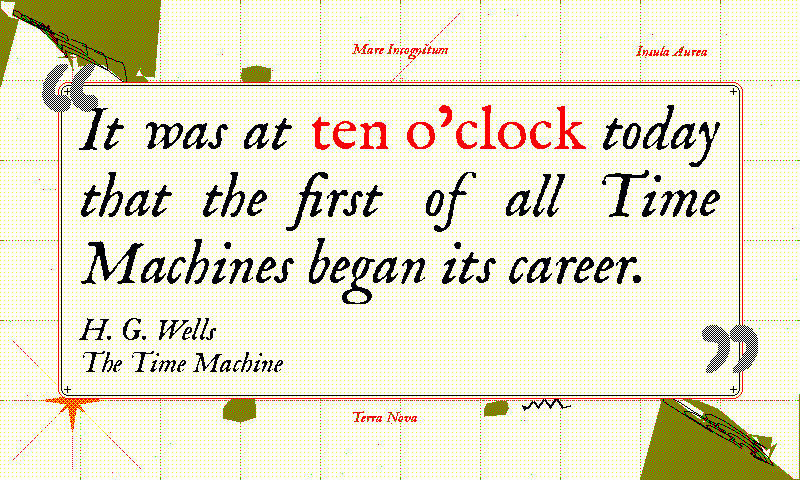
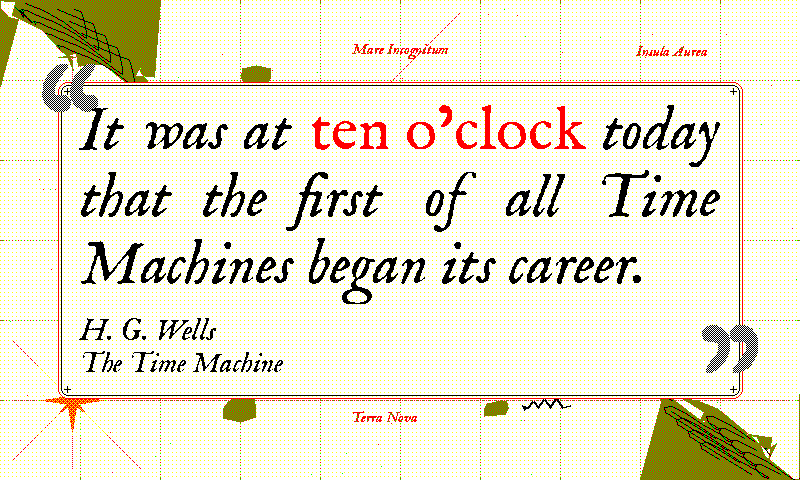
Fix cartograph topographic contours: parallel offset lines, not bunched rings
The previous contour attempt interpolated the coast arc toward a single
inland "summit", which bunched all the rings into a band hugging the
coastline and left the landmass interior empty — it didn't read as relief.

Redo the form-lines the way real topographic contours work: five lines,
each an inland OFFSET copy of the smoothed coast edge translated toward the
corner in fixed 12 px steps, so they run parallel to the shoreline at even
spacing across the whole landmass. Each segment is clipped to the land
silhouette via a new even-odd `_point_in_polygon` helper so offsets that
overshoot the corner apex into open sea aren't drawn. Still black over the
sepia fill, still byte-deterministic (covered by the existing cartograph
determinism test).

Refresh the cartograph README thumbnail; default.png reproduces
byte-for-byte. Update CLAUDE.md. Full suite green before commit (396
passed, 3 skipped); ruff clean.

Changed region(s): [[0.8438, 0.8438, 0.9688, 1.0], [0.0312, 0.0312, 0.1562, 0.1562]]

diff --git a/idle_hours/render_quote.py b/idle_hours/render_quote.py
@@ -9921,6 +9921,29 @@ def _draw_cartograph_sea_serpent(
     draw.polygon(head_pts, fill=ink)
 
 
+def _point_in_polygon(x: int, y: int, poly: list[tuple[int, int]]) -> bool:
+    """Even-odd ray-cast point-in-polygon test.
+
+    Used by ``_draw_cartograph_coastline`` to clip interior contour
+    form-lines to the land silhouette so an offset contour that overshoots
+    the corner apex into open sea isn't painted. Pure-integer crossing
+    count; ``poly`` is the closed land polygon (the function treats it as
+    implicitly closed).
+    """
+    inside = False
+    n = len(poly)
+    j = n - 1
+    for i in range(n):
+        xi, yi = poly[i]
+        xj, yj = poly[j]
+        if (yi > y) != (yj > y):
+            x_cross = xi + (y - yi) * (xj - xi) / (yj - yi) if yj != yi else xi
+            if x < x_cross:
+                inside = not inside
+        j = i
+    return inside
+
+
 def _draw_cartograph_coastline(
     draw: ImageDraw.ImageDraw,
     corner: tuple[int, int],
@@ -9994,17 +10017,19 @@ def _draw_cartograph_coastline(
     pts.append((corner_x, corner_y))
     draw.polygon(pts, fill=ink_sentinel)
 
-    # Interior topographic form-lines — nested contour rings shrinking
-    # toward an inland "summit" near the corner, the contour engraving an
-    # antique chart used to show a landmass has relief rather than reading
-    # as a flat ink blot. The rings echo the shoreline's broad shape but
-    # are SMOOTHED first (a couple of neighbour-averaging passes) so they
-    # read as clean engraved form-lines rather than inheriting the coast's
-    # fractal jitter at shrunk scale (which looked like scribble). Drawn
-    # in BLACK (not the red sentinel) so the caller's red→green sepia
-    # post-pass leaves them as crisp lines over the sepia land fill. The
-    # summit sits a short way in from the corner along the diagonal so the
-    # rings nest concentrically toward high ground.
+    # Interior topographic form-lines — contour lines drawn as inland
+    # OFFSET copies of the coastline, the contour engraving an antique
+    # chart used to show a landmass has relief rather than reading as a
+    # flat ink blot. Rather than interpolating the coast arc toward a
+    # single summit (which bunches the rings together at the arc's narrow
+    # ends), each contour is the smoothed coast edge TRANSLATED toward the
+    # corner by a fixed pixel step — so the form-lines run parallel to the
+    # shoreline at constant spacing, exactly the way real topographic
+    # contours hug a coast. The smoothing (two neighbour-averaging passes)
+    # keeps them clean engraved lines rather than inheriting the coast's
+    # fractal jitter. Drawn in BLACK (not the red sentinel) so the
+    # caller's red→green sepia post-pass leaves them as crisp relief lines
+    # over the sepia land fill.
     smooth_edge = list(coast_edge)
     for _ in range(2):
         smoothed: list[tuple[float, float]] = []
@@ -10015,27 +10040,27 @@ def _draw_cartograph_coastline(
             cx2, cy2 = smooth_edge[(j + 1) % m]
             smoothed.append(((ax + 2 * bx2 + cx2) / 4.0, (ay + 2 * by2 + cy2) / 4.0))
         smooth_edge = smoothed
-    summit_x = corner_x + sign_x * round(abs(extent_x - corner_x) * 0.30)
-    summit_y = corner_y + sign_y * round(abs(extent_y - corner_y) * 0.30)
     contour_ink = SPECTRA6["black"]
-    # Four evenly-spaced rings give a denser, more legibly "topographic"
-    # nest than three; they span from just inside the coast (0.80) to
-    # close to the summit (0.20).
-    for factor in (0.80, 0.60, 0.40, 0.20):
-        ring = [
-            (round(summit_x + (px - summit_x) * factor),
-             round(summit_y + (py - summit_y) * factor))
-            for px, py in smooth_edge
-        ]
-        # Open polyline so the contour reads as a hand-drawn form-line
-        # that fades near the coast-meets-axis ends rather than a closed
-        # loop sitting awkwardly on the corner edges.
-        draw.line(ring, fill=contour_ink, width=1)
-    # A small filled summit dot marks the high point (a spot-height mark).
-    draw.ellipse(
-        (summit_x - 1, summit_y - 1, summit_x + 1, summit_y + 1),
-        fill=contour_ink,
-    )
+    # Five contours stepping inland from just inside the coast (12 px) to
+    # deep toward the corner (60 px). Translating by ``-sign * step`` moves
+    # each point toward the corner the land sits in. Only the segments
+    # that stay inside the land polygon read as relief; segments that
+    # would fall in the sea/off-corner are clipped to the land fill below.
+    land_poly = pts
+    for step in (12, 24, 36, 48, 60):
+        ring = [(px - sign_x * step, py - sign_y * step) for px, py in smooth_edge]
+        # Clip each contour to the land: only paint a segment when BOTH
+        # endpoints sit on a sepia-land pixel (the red sentinel fill), so
+        # an offset that overshoots past the corner apex into open sea
+        # isn't drawn. Walk the polyline pairwise.
+        for a, b in zip(ring, ring[1:]):
+            ax, ay = int(round(a[0])), int(round(a[1]))
+            bxp, byp = int(round(b[0])), int(round(b[1]))
+            if not _point_in_polygon(ax, ay, land_poly):
+                continue
+            if not _point_in_polygon(bxp, byp, land_poly):
+                continue
+            draw.line((ax, ay, bxp, byp), fill=contour_ink, width=1)
 
     xs = [p[0] for p in pts]
     ys = [p[1] for p in pts]

diff --git a/CLAUDE.md b/CLAUDE.md
@@ -554,7 +554,7 @@ Imports `pick_quote` in-process (`pick_quote_module.select_quote`) and lays out 
   - `tarot` (cream-and-sepia foxed vellum ground / black EB Garamond body / Tyrian-purple matched phrase / red+blue rubricated chrome, single-card major-arcana tarot composition — the fourth theme to bypass the literary layout entirely. Composition: a centred 520×440 card outline with a doubled rubricated border (3-px red outer rule + 2-px gap + 1-px black inner rule, the same illuminated-family border family `illuminated` / `gothic` extend), playing-card-style Roman numerals in all four card corners (bottom pair rotated 180° via PIL `Image.rotate(180)` so the hour reads from any orientation — the canonical playing-card convention; each corner numeral carries a small red "suit pip" dot beneath it as a stylised IH-rank-glyph differentiator from a real playing card), a Roman numeral hour at the card top in Cinzel Decorative Black 36pt, the matched-phrase **card name in Tyrian purple (R+B 1:1 dither via `draw_text_dithered`)** — the same recipe `illuminated` uses for its matched phrase, here promoted to the card-name chrome — set in Cinzel Decorative Bold 22pt all-caps, an **hour-mapped emblem at the card centre** (all twelve trumps ship as detailed line-work polygon templates ~140–200 px tall via `_TAROT_EMBLEMS` dispatch — Magician I with vertical staff + infinity lemniscate + suit-tools altar / Priestess II with B/J pillars + crescent moon + TORA scroll / Empress III with throne + 12-star crown arc + wheat sheaf / Emperor IV with ram-head finials + crown + ankh scepter + orb / Hierophant V with triple-tier triregnum tiara + crossed keys / Lovers VI with sun + angel + intertwined hearts + flanking trees / Chariot VII with 4-spoke wheels + canopy columns + pentagram star / Strength VIII with infinity above + lion silhouette with mane rays + fanged mouth / Hermit IX with hooded robe silhouette + raised lantern with 24-point flame + diagonal staff / Wheel X with concentric rims + 8 spokes + T·A·R·O cardinal sigils + 12 perimeter ticks / Justice XI with 3-spike crown + raised sword + balanced scales + pivot diamond / World XII with laurel-wreath leaf-polygon ring + dancing stick figure + 4 corner creature stars; the defensive `_tarot_emblem_default` pentagram fallback is retained but no normal-use hour reaches it now), the literary quote body in EB Garamond Regular sitting in a **clean cream-Bayer cartouche knocked out of the surrounding R+G sepia foxing** via `_tarot_paint_body_panel` (the foxing-stipple from `_tarot_paint_vellum` is gorgeous as card-stock texture but breaks up EB Garamond's hairline serifs in small-glyph regions, so the body region is overpainted with a solid-white wipe followed by a fresh Y+W cream wash and framed with a thin red rule anchoring it as a deliberate "interpretation cartouche" — same border family as the outer doubled rule), and a centred author · title attribution in Cinzel Decorative Regular 12pt at the bottom of the card. The **R+G sepia foxing vellum ground** (`_tarot_paint_vellum`) is a two-layer aged-paper recipe: a 2-in-16 Y+W cream base wash for warm parchment tone, then sparse 1-in-32 R+G foxing dots split by tile-coordinate parity (red at one tile-parity, green at the opposite) so the foxing scatter looks random rather than grid-aligned — at panel viewing distance adjacent R + G dots blend into rust-brown sepia, the same lignin-oxidation recipe `newsprint` uses for its foxing layer but layered over cream rather than over a darker halftone so the card stock reads as older archival ritual-document than fresh manuscript vellum (distinct from the gold-cream Y+W register `illuminated` / `herbarium` / `mucha` / `astrarium` use). Saturation tier `0.5` (white ground despite the foxing) — the matched-phrase Tyrian purple and the rubricated red corner numerals stay punchy at the panel's white-ground tier.
   - `vinyl` (cream-washed sleeve / black Cormorant Garamond body / tangerine matched-phrase / red label + black tonearm, turntable + literary-audiobook LP back-cover — the fifth theme to bypass the literary layout entirely. Visually a 1950s/60s spoken-word LP in the **Caedmon Records / Spoken Arts / Listening Library register** — those labels pressed Dylan Thomas, T. S. Eliot, Auden et al. reading their own work to vinyl, the discs looked mechanically identical to music LPs (33 RPM, grooved, jacketed, library-distributed), and they are the historical bridge between a vinyl visual and a literary corpus. Composition divides the canvas down the middle: **left half is the turntable** with a black vinyl LP (radius 200, centred at `(_VINYL_DISK_CX, _VINYL_DISK_CY) = (200, 240)`) — densely-packed concentric groove hairlines (1-px white ellipses every 3 px across the programme band r_label+12 → r_outer-10 = ~33 grooves that blur at panel distance into a textured silvery band — earlier revisions used only 3-4 rings spaced 28 px apart which read as decorative concentric circles rather than as actual pressed-vinyl grooves), a heavier 2-px lead-in groove just inside the rim, and a smooth dead-wax ring between the inner groove and the label — the three-zone authentic LP pressing structure. The **pivoted tonearm** (`_vinyl_paint_tonearm`) replaces an earlier straight-line stylus rendition: the arm pivots from a fixed point at `_VINYL_TONEARM_PIVOT = (388, 70)` (upper-right of the turntable plate, off the disk itself), with a counterweight cylinder behind the pivot (small black filled circle + red outline ring) and a black cartridge headshell at the front (a 4-point polygon rotated to follow the arm angle, since PIL has no rotate-rectangle primitive); the cartridge stylus pin (small red filled circle) lands on the disk rim at the current-minute angle (12-o'-clock = minute 0, clockwise) — the canonical "this is a turntable" silhouette every consumer LP-deck has worn into collective memory, without which the disk reads as a generic vinyl drawing. The red 80-px-radius **label** carries an outer 2-px black ring border (inset 4 px from the label edge), a `· SPOKEN WORD ·` format mark along the top arc in small Antonio Bold (the audiobook-LP equivalent of a music LP's STEREO format mark), the matched-phrase snippet truncated to 18 chars as the "passage title" in Cormorant Bold 11pt, a thin white hairline divider, an `IDLE HOURS` Cormorant Bold 14pt brand line, a `READ ALOUD` Cormorant Regular 11pt sub-title (the audiobook-LP equivalent of music LP's "VOLUME I"), a Space Mono Bold catalog number like `IH-H11-15` derived from the fuzzy bucket via `_vinyl_catalog_number`, and a `© YYYY` year stamp at the bottom arc — all white-on-red. Render order on the turntable side is **disk body (black + grooves only, no label / spindle) → tonearm (line may cross over the inner disk and label area) → label (red fill + outer ring + STEREO + brand + spindle)**, so the label paints on top of the arm without the arm cutting through the brand-stack text. **Right half is the cream-washed liner-notes panel**: a small red `— READING —` Antonio Bold heading at the top (the Caedmon-Records equivalent of a music LP's "TRACK ONE" sleeve heading), a **spec strip** just beneath it (`SIDE ONE · 33 RPM · MONO` left, `RUNNING TIME m:ss` right, in Space Mono Bold over a thin hairline rule — the technical line real spoken-word backs ran under each selection; the running time is a stable per-bucket digest, not `hash()`, so the frame stays byte-deterministic, and the speed uses ASCII `33 RPM` since Space Mono has no `⅓` glyph) that fills the dead cream between the heading and the vertically-centred quote and brackets the body symmetrically with the bottom catalog bar, the literary quote in Cormorant Garamond with a tangerine R+Y 5/8:3/8 matched-phrase substitution (the documented `deco` / `astrarium` recipe), author · title attribution, a bottom catalog bar reading `IDLE HOURS LITERARY RECORDINGS  ·  CAT NO. IH-H11-15  ·  © YYYY` in Cardo Italic 11pt with a thin black hairline rule above (the small-print band real LP back covers carry at the bottom of the jacket), and a `33 RPM` badge in the top-right corner (earlier revisions used the unicode `⅓` glyph but Space Mono Bold doesn't carry that codepoint and the badge tofu'd; ASCII `33 RPM` is the canonical fallback every record-jacket designer reaches for when the fractional ⅓ isn't available). Daily-seeded wear marks on the sleeve (`_vinyl_paint_wear_speckle(seed=YYYYMMDD)`) — same-day re-renders produce the identical speckle pattern, day-to-day re-renders drift naturally. Saturation tier `0.5` (white-ground tier) — the cream sleeve dominates visually and the black vinyl disk has no synthesised colour that needs a saturation boost; the matched-phrase tangerine R+Y uses the same recipe `astrarium` does and reads correctly at this saturation.
   - `kanagawa` (white/black/red, Yuji Boku sumi-brush — Yuji Hamasaki, OFL via Google Fonts — a stylised Japanese seascape inspired by Hokusai's "Thirty-six Views of Mount Fuji" series. An earlier revision attempted a literal Great-Wave silhouette via parametric Gaussian-peak polygons but PIL polygon fills + a 6-colour palette can't carry the ink-brush nuance the print needs; the design pivoted to the canonical seigaiha (青海波 / "blue ocean waves") textile pattern as the centrepiece — overlapping fish-scale half-disks (`draw.pieslice` from 180° to 360°) in indigo with three concentric white arc stripes (radii 23 / 18 / 13) inside each scale, arranged in tight rows with each row offset by half a tile width from the row above so only the upper crescent of each scale shows — the iconic woven-textile rhythm. Tile geometry is held on module-level constants (`_SEIGAIHA_TILE_RADIUS = 28`, `_SEIGAIHA_RING_RADII`) and the helper `_draw_seigaiha_band` fills an arbitrary horizontal band so future themes can reuse the primitive. Composition layers above the seigaiha (deepest → shallowest): a vertically-graduated sky-blue Bayer wash (the first *gradient* Bayer wash in the codebase — threshold tapers linearly from 5/16 at y=0 to 0 at the horizon y≈264, reading as morning haze), five distant ink-stroke birds at module-level deterministic anchors (`_KANAGAWA_BIRD_ANCHORS`, with asymmetric per-bird left/right wing droops so the flock reads as five distinct soaring silhouettes rather than identical V stamps), and a thin sparse-stippled blue horizon line at y≈297 separating sky from seigaiha. The deepest seigaiha row picks up a navy stipple post-pass (B+K 1:1, the documented `bauhaus` matched-phrase recipe) so the bottom of the "ocean" reads as deeper water. A red rounded-rectangle hanko seal (32×38 px at the bottom-right corner, with a stylised `川` "kawa" / "river" kanji painted in 2 px white strokes — leftmost stroke kinked at the top to suggest brush motion) anchors the BR; the seal's base picks up a bbox `(x+y)&1` maroon post-pass (R+K 1:1, the documented recipe `dispatch` and `chanbara` both use) so it reads as the aged oxblood of a real archival ink stamp. The body text + attribution sit inside a cream-tinted rounded paper panel knocked out of the seigaiha (radius 12 via `draw.rounded_rectangle`), painted via the same `clear_rect` dispatch in `render()` that `blueprint` uses for its graph-paper grid knockout. The panel has a 1 px black frame following the rounded corner arc and a 2 px black drop-shadow ledge on the bottom-right edge (a black rounded rect offset 2 px right/down before the cream fill — the cream covers all but the 2 px ledge), reading as a hand-pressed paper card lifted slightly above the seigaiha textile. The cream tint uses 4 off-grid anchor positions per 8×8 tile (at (1,3) + (5,6) + (2,7) + (6,2), ~6% yellow density on white) rather than the regular 4×4 Bayer matrix — the off-grid placement avoids the "lemon grid" lattice effect a Bayer pattern produces at desktop zoom against the saturated seigaiha indigo, while still averaging to warm vellum at panel-viewing distance. Matched time phrase: solid Spectra red — the classic ukiyo-e signature-red register, tied tonally to the hanko seal's red base. Body face is Yuji Boku, the first proper Japanese sumi-brush face in the bundle (single Regular weight; matched-phrase role re-uses Regular and gains differentiation from the red accent alone, same trick comic / dispatch / atomic / marker / saloon / deco / glacier / chalkboard / placard / chanbara use). Sits visually distinct from the rotation's other Japanese-flavoured theme (`chanbara` — dramatic all-caps samurai-cinema brush via Shojumaru): chanbara is samurai *cinema* in a bold display brush with a rising sun, kanagawa is woodblock-print *textile* in a calligraphic body brush with seigaiha as the dominant motif. No outer frame — authentic woodblock prints have no border (same composition discipline as `fillmore`); kanagawa is intentionally absent from `_DEBUG_LABEL_RIGHT_INSET` since the seigaiha sits in the bottom half and no graphic touches the y=14-29 banner band).
-  - `cartograph` (cream-washed white / black IM Fell English Italic body / red matched-phrase, hand-drawn antique cartographer's chart — a literary-layout theme with a heavy `draw_cartograph_border` decoration rather than a custom-render frame. White-paper ground warmed by a cream Y+W Bayer Layer-0 wash plus a sparse R+G sepia foxing scatter (the same two-pass aged-paper recipe `newsprint` / `tarot` use, here over cream); two diagonal-corner coastline silhouettes in R+G sepia (a 26-vertex two-octave ragged edge — a slow swell carving broad bays / headlands plus a fast jitter for the fractal nibble of a real engraved shoreline, so the land reads as a coastline with inlets and capes rather than a smooth filled triangle; each landmass also carries interior **topographic form-lines** — four nested contour rings, the coast edge smoothed by two neighbour-averaging passes then interpolated toward an inland "summit" spot-height, drawn in black so the red→green sepia post-pass leaves them as crisp engraved relief lines over the sepia land fill, the contour hachure an antique chart used to show a landmass has elevation), a 32-px R+Y tangerine compass rose at the bottom-left, a small black sea-serpent margin doodle ("here be dragons"), three hand-lettered italic Latin place labels in sepia, and a `clear_rect` knockout of the body region to a clean cream cartouche with a doubled red+black rubricated rule and registration-cross corner accents (the same knockout `kanagawa` / `blueprint` use). The matched phrase picks IM Fell *Regular* (upright Roman) in solid red so differentiation arrives via colour + roman/italic split rather than weight — the canonical "place name upright, body legend italic" cartographic convention. Completes the navigation trio alongside `firmament` (celestial atlas) and `astrarium` (instrument dashboard). Saturation tier `0.5`.)
+  - `cartograph` (cream-washed white / black IM Fell English Italic body / red matched-phrase, hand-drawn antique cartographer's chart — a literary-layout theme with a heavy `draw_cartograph_border` decoration rather than a custom-render frame. White-paper ground warmed by a cream Y+W Bayer Layer-0 wash plus a sparse R+G sepia foxing scatter (the same two-pass aged-paper recipe `newsprint` / `tarot` use, here over cream); two diagonal-corner coastline silhouettes in R+G sepia (a 26-vertex two-octave ragged edge — a slow swell carving broad bays / headlands plus a fast jitter for the fractal nibble of a real engraved shoreline, so the land reads as a coastline with inlets and capes rather than a smooth filled triangle; each landmass also carries interior **topographic form-lines** — five contour lines drawn as inland OFFSET copies of the smoothed coast edge (translated toward the corner in fixed 12 px steps so they run parallel to the shoreline at even spacing, the way real topographic contours hug a coast, rather than interpolating toward a single summit which bunched the rings together), each segment clipped to the land silhouette via `_point_in_polygon` so offsets that overshoot the corner apex into open sea aren't drawn, painted in black so the red→green sepia post-pass leaves them as crisp engraved relief lines over the sepia land fill — the contour hachure an antique chart used to show a landmass has elevation), a 32-px R+Y tangerine compass rose at the bottom-left, a small black sea-serpent margin doodle ("here be dragons"), three hand-lettered italic Latin place labels in sepia, and a `clear_rect` knockout of the body region to a clean cream cartouche with a doubled red+black rubricated rule and registration-cross corner accents (the same knockout `kanagawa` / `blueprint` use). The matched phrase picks IM Fell *Regular* (upright Roman) in solid red so differentiation arrives via colour + roman/italic split rather than weight — the canonical "place name upright, body legend italic" cartographic convention. Completes the navigation trio alongside `firmament` (celestial atlas) and `astrarium` (instrument dashboard). Saturation tier `0.5`.)
   - `vitrail` (jewel-glass field / black lead-came / clear white-glass quote cartouche, Gothic stained-glass cathedral window — the sixth theme to bypass the literary layout entirely, dispatching from `render` into its own `render_vitrail_frame`. The "take full advantage of the hardware" theme: a tall lancet window whose black lead-came tracery (`_vitrail_paint_lead_came`) divides the canvas into an irregular hand-leaded mosaic of jewel-toned glass shapes that deliberately exercise the FULL synthesised Spectra-6 palette — the four saturated native inks plus amber/gold (R+Y 5/8:3/8 tangerine), royal purple (R+B 1:1), teal (G+B 5/8:3/8), plum (R+B+K 3-ink), lavender (R+B+W 3-ink), rose/coral (R+W), sky-blue (B+W), olive (Y+G), mint (G+W), navy (B+K) and forest (G+K) — drawn deterministically from the module-level `_VITRAIL_GLASS` spec list. `_vitrail_build_panes` starts from a 6×5 lattice, pins the border vertices to the frame but nudges every interior vertex off-grid by a seeded RNG (`_VITRAIL_SEED` / `_VITRAIL_JITTER`), then splits ≈half the cells (`_VITRAIL_SPLIT_PROB`) along one diagonal into two triangular shards with different tones — so the field reads as varied quadrilaterals and triangles rather than a regular grid. Each shape is filled via `_vitrail_fill_polygon` (a 1-bit polygon mask + the per-pixel `_vitrail_pane_ink`, whose solid / 2-ink / 3-ink branches mirror `_fill_swatch_stipple` / `_fill_swatch_stipple_3way` against absolute x/y so the Bayer phase stays continuous across seams), and `_vitrail_paint_lead_came` then strokes every shape's closed outline as a *beveled raised bar* — three offset passes per seam (white specular highlight offset up-left = the lit top of the rounded lead, black drop shadow offset down-right = the shadow the raised bar casts onto the recessed glass, black core last) modelling light from the upper-left, so the came reads as a physical 3D frame standing proud of the glass rather than flat lines (`_VITRAIL_CAME_BEVEL` sets the offset). The outer stone surround (`_vitrail_paint_outer_frame`) and the central cartouche frame carry the same lit-top-left / shadowed-bottom-right lip so the clear glass reads as recessed behind raised lead. `_vitrail_paint_shimmer` then sweeps a couple of diagonal specular sheen bands across the filled glass (white stippled in at a Bayer density peaking on each band's centreline and tapering to its edges, skipping black/white pixels) so the panes read as a glossy reflective surface catching light rather than flat colour fields — the field-wide pass runs before the came / cartouche so those paint cleanly over it, and a second clipped pass re-applies the *same* streaks (band positions are always derived from the full window field, so they stay aligned) to the rose-window glass after the medallion is painted, so its petals catch the light continuously with the surrounding panes. A pointed lancet arch is carved into the top by filling the two top-corner spandrels black (`_vitrail_paint_arch_spandrels`); a rose-window medallion (`_vitrail_paint_rose_window`) at top-centre divides a stone-ringed glass disc into twelve jewel-tone petal wedges by radial came and carries the Roman-numeral hour (Uncial Antiqua, via the shared `_TAROT_ROMAN_NUMERALS` dict) at its clear-glass hub. The literary quote glows in a clear white-glass central cartouche (`_vitrail_paint_quote_cartouche`) knocked out of the colored field with a solid-white wipe — not a wash — so the dark Liberation Serif body and the **violet-glass matched phrase (R+B 1:1 via `draw_text_dithered`)** stay legible over the busy panes; author · title attribution sits at the cartouche foot in the same Liberation Serif body face (*not* the Uncial Antiqua ornament chain — the uncial's open letterforms shatter into ambiguous strokes at the 15px byline size after `snap_image_to_palette`, the same hairline-at-small-size failure documented for astrarium / tarot, so the attribution is rendered in the legible body serif instead). The digital HH:MM is never surfaced as plain digits — the matched phrase and the rose-window numeral carry the time. Fully deterministic (no RNG) so re-renders of a given time are byte-identical. The palette in `THEMES` is a plain white/black ground with a blue (violet-glass) accent, consumed only by the goodnight / source-card fall-through paths; the frame itself hardcodes Spectra-6 inks. Saturation tier `0.7` (the colored glass dominates the canvas; the white cartouche has no chroma to scale).)
 - **Fonts.** Typography is per-theme, and each non-default theme deliberately picks a face from a different type *family* so the rendered frame's silhouette changes with the theme — not just its palette. `THEME_FONTS` maps each `THEMES` entry to a dict with `quote_regular` / `quote_bold` / `ornament` candidate chains, each a list of path strings OR `(path, variation_name)` tuples. The tuple form targets variable fonts — `load_font` calls `set_variation_by_name(name)` after the truetype load, so e.g. the scholar theme picks Regular/Bold instances from a single variable `Bitter-Variable.ttf` (whose default axis instance is Thin — a missing variation call would render near-invisible hairlines on the panel). Every per-theme chain ends at the Playfair / DejaVu defaults so a missing-font install degrades to the default face instead of dropping to the PIL bitmap fallback. System metadata / debug strips always use DejaVu / Noto / Liberation Sans regardless of theme. Install `apt install fonts-noto-core fonts-dejavu-core` if the bundled fonts aren't found. When every TTF candidate is missing, `load_font` logs a one-shot warning to stderr before returning `ImageFont.load_default()` so a misconfigured install surfaces instead of silently producing an 8-pixel bitmap render.
   - `default` and `dark` share the Playfair Display chain (transitional / high-contrast serif; repo-local `idle_hours/fonts/`, then common Pi/Linux paths, with DejaVu Serif / Liberation Serif / Noto Serif as system fallbacks).
